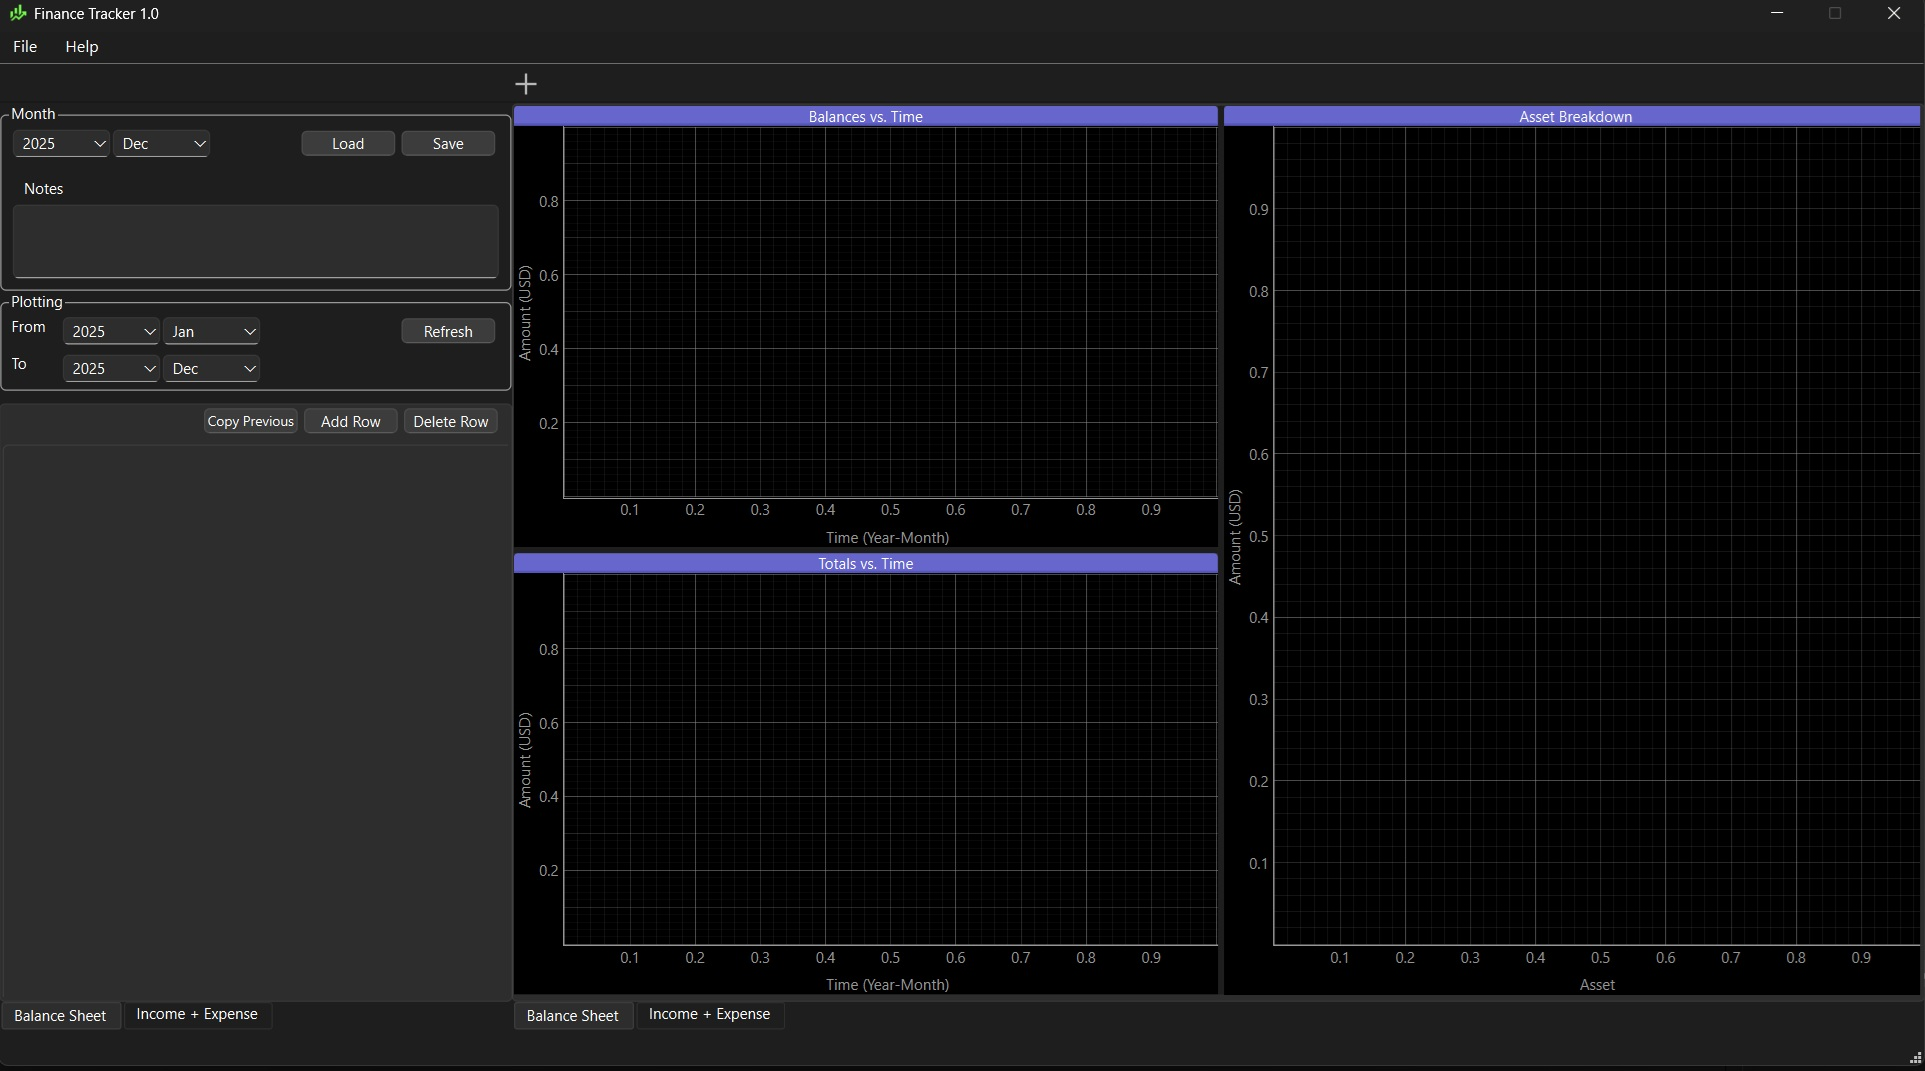
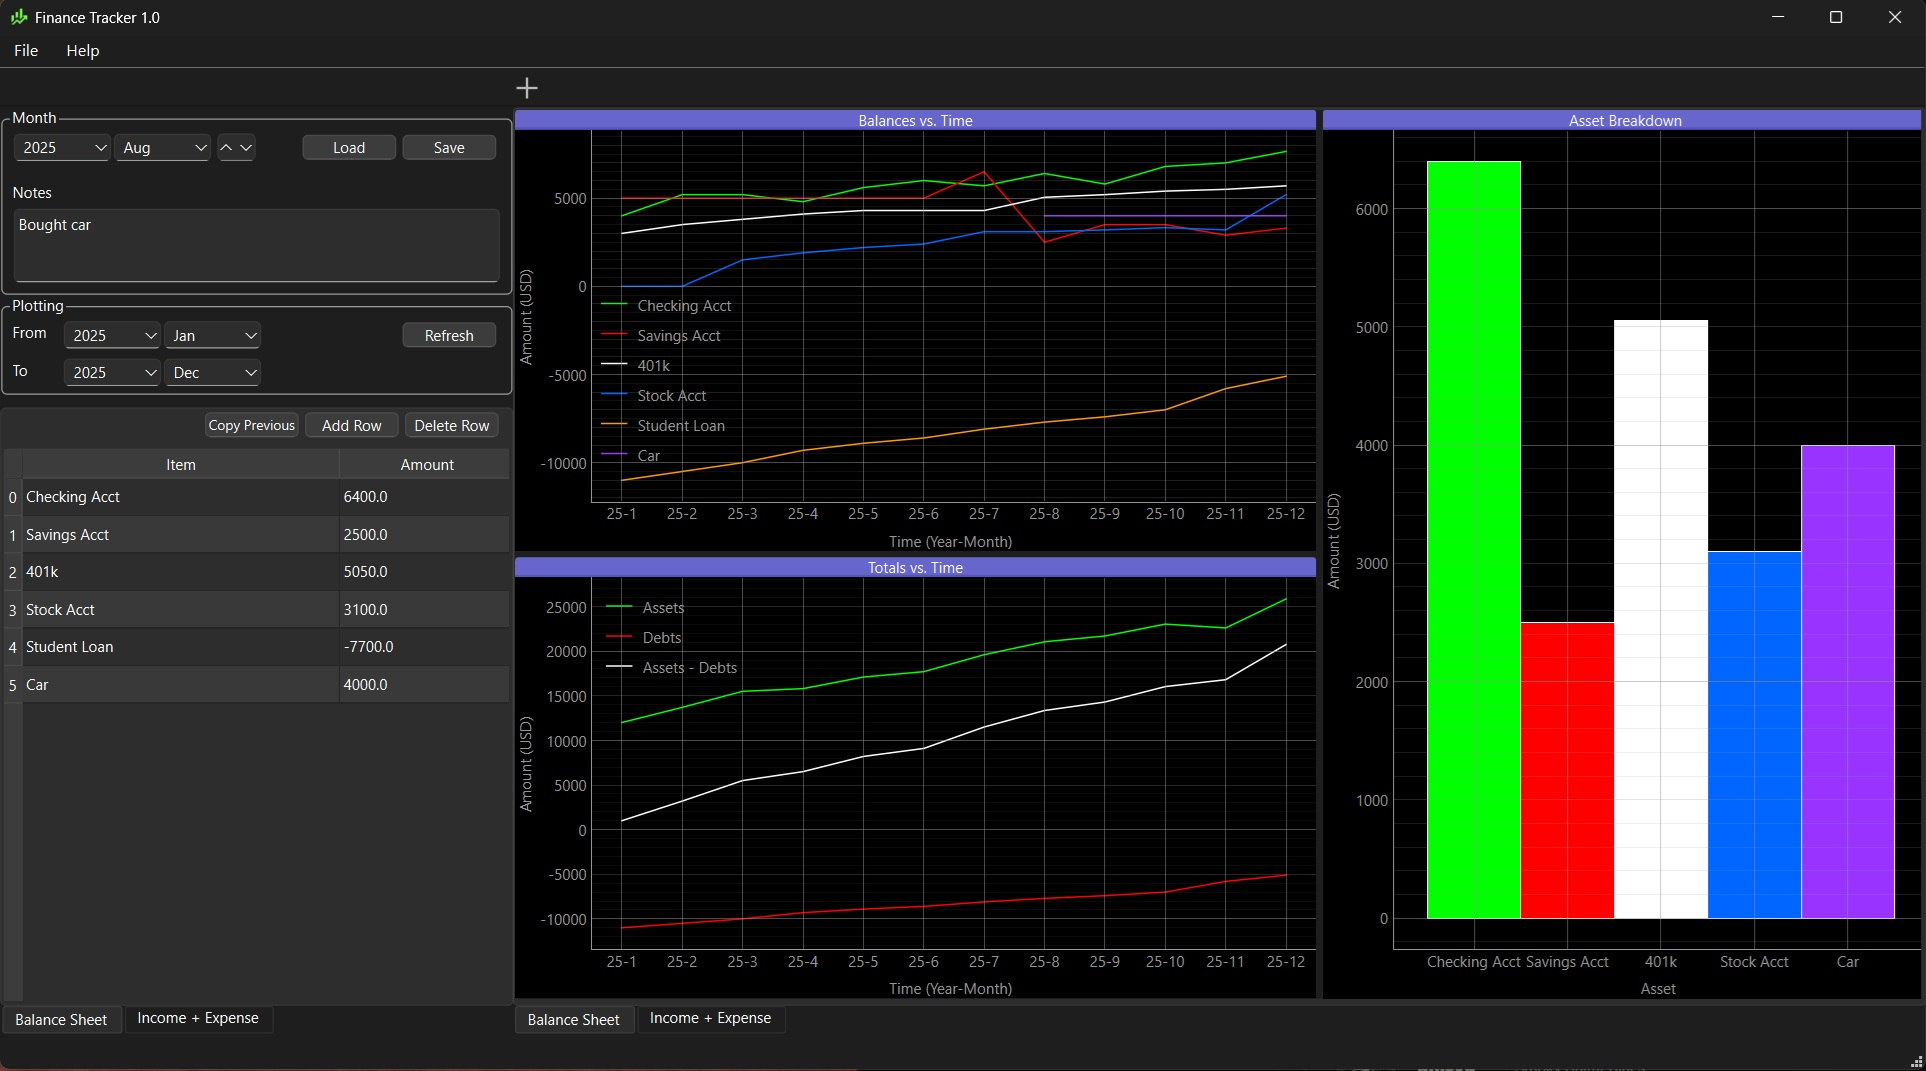
add sample data for repo

diff --git a/Source/main.py b/Source/main.py
@@ -58,7 +58,7 @@ class Properties:
                 }           
         }   
         }
-        self.year_list = ["2020", "2021", "2022", "2023", "2024", "2025"] #make editable through ui later
+        self.year_list = ["2020", "2021", "2022", "2023", "2024", "2025", "2026"] #make editable through ui later
         self.month_list = ["Jan", "Feb", "Mar", "Apr", "May", "Jun", "Jul", "Aug", "Sep", "Oct", "Nov", "Dec"] #make editable through ui later
         self.year_sel = "2025"
         self.month_sel = "12"
@@ -89,7 +89,11 @@ class MainWindow(QMainWindow):
             #load db file from working directory if present, to overwrite blank template
             self.ps.db = np.load(os.path.join(self.ps.working_dir,"db.npz"), allow_pickle=True)["db"].item()
         except:
-            pass
+            QMessageBox.warning(
+                self,
+                "Database Warning",
+                f'Could not find the database file "db.npz" in the working directory: {self.ps.working_dir} \n\nCreated a new blank database file. If you have an existing database, please set the working directory to its location and restart the program.'
+            )
 
         #Set initial component properties
         self.setWindowTitle(f"{self.ps.APP_NAME} {self.ps.APP_VERSION}")
@@ -362,8 +366,8 @@ class MainWindow(QMainWindow):
             x, y = mouse_point.x(), mouse_point.y()
 
             # Update coordinate label (positioned slightly above & right of cursor)
-            label.setText(f"y: {y:.3f}")
-            # label.setText(f"x: {x:.3f}\ny: {y:.3f}")            
+            label.setText(f"y: {y:.2f}")
+            # label.setText(f"x: {x:.2f}\ny: {y:.3f}")            
             label.setPos(x, y)  # small offset — adjust as needed
     #----------------------------------------------------------
     def on_tab_changed(self, index):
